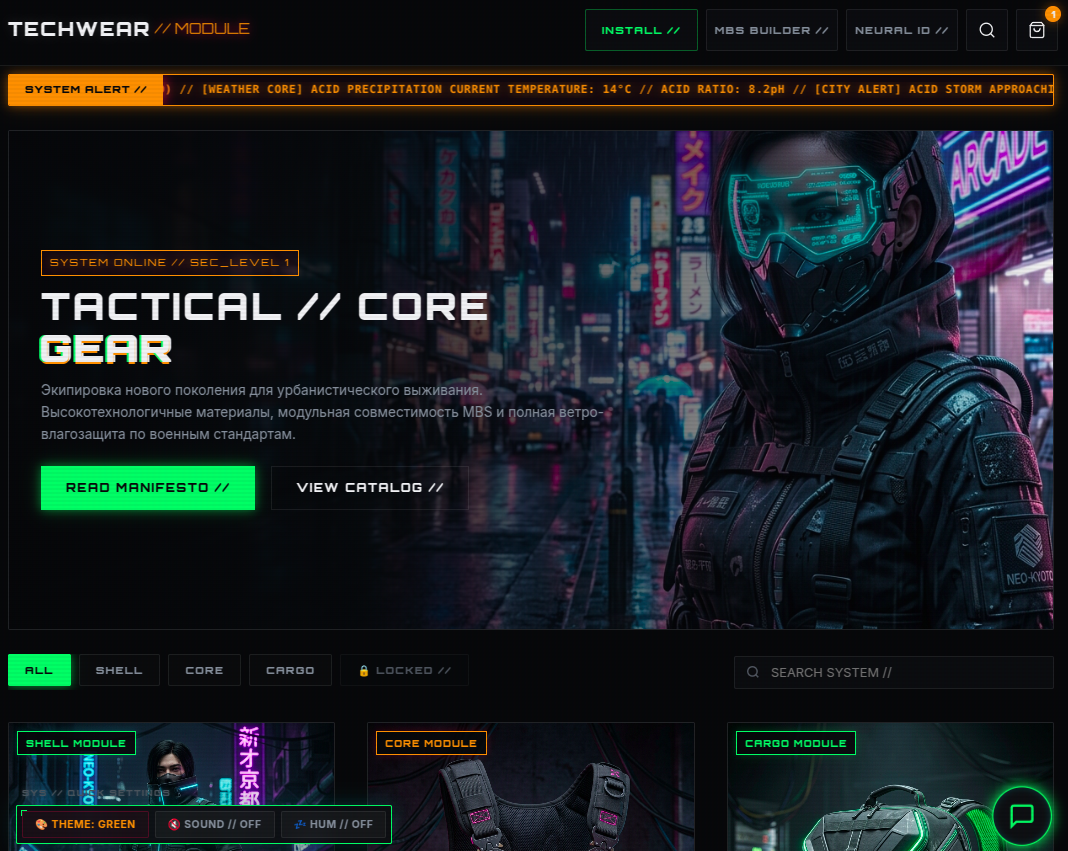
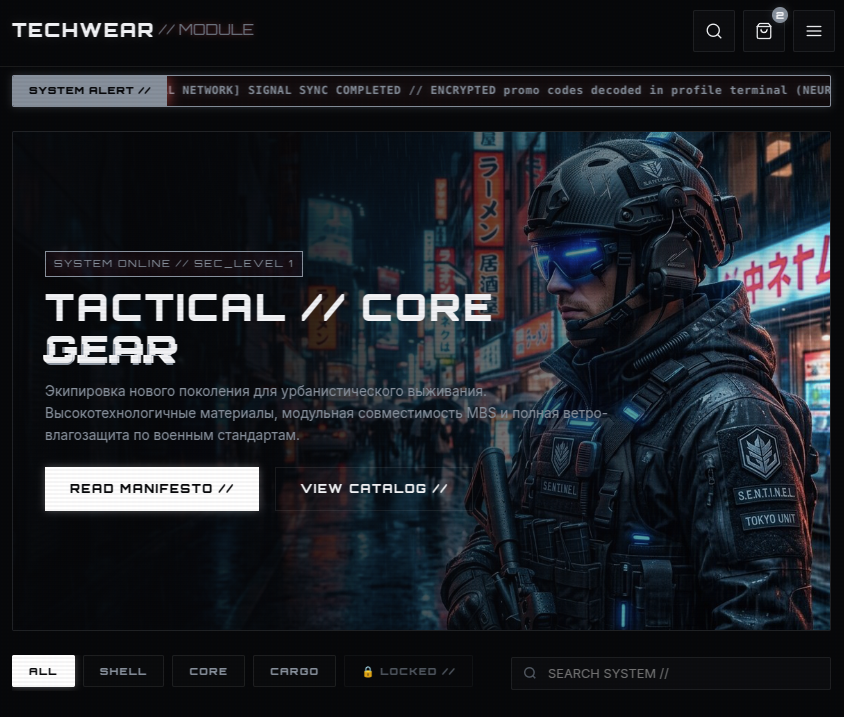
feat: add GameVault project, update tech stacks, skills grid and header buttons

diff --git a/index.html b/index.html
@@ -47,13 +47,13 @@
         </nav>
         <div class="header__actions">
           <a
-            class="header__btn header__btn--anketa"
+            class="button button-yellow header__btn header__btn--anketa"
             href="https://lelyaler.github.io/anketa/"
             target="_blank"
             >Анкета</a
           >
           <a
-            class="header__btn header__btn--cv"
+            class="button header__btn header__btn--cv"
             href="https://lelyaler.github.io/cv/"
             target="_blank"
             >CV</a
@@ -116,13 +116,13 @@
             </p>
             <div class="about__more" id="about-more">
               <p class="about__description" data-splitting="words">
-                Параллельно брала проекты на фрилансе - делала сайты «под ключ»
-                для малого и среднего бизнеса. Создавала кастомные темы
-                WordPress и магазины WooCommerce с нуля, без готовых шаблонов и
-                конструкторов. Подключала платёжные API, обеспечивала
-                веб-безопасность (валидация, экранирование, защита от XSS и
-                SQL-инъекций). Разрабатывала проекты на React, верстала из Figma
-                с Pixel Perfect и Mobile First.<br />
+                Беру проекты на фрилансе - делаю сайты «под ключ» для малого и
+                среднего бизнеса. Создаю кастомные темы WordPress и магазины
+                WooCommerce с нуля, без готовых шаблонов и конструкторов.
+                Подключаю платёжные API, обеспечиваю веб-безопасность
+                (валидация, экранирование, защита от XSS и SQL-инъекций).
+                Разрабатываю проекты на React, верстаю из Figma с Pixel Perfect
+                и Mobile First.<br />
               </p>
               <p class="about__description" data-splitting="words">
                 Могу закрыть задачи на стыке WordPress и фронтенда - от
@@ -360,16 +360,7 @@
                   <span class="skills__item-title">React</span>
                 </div>
               </li>
-              <li class="skills__list-item">
-                <div class="skills__list-item-inner">
-                  <img
-                    class="skills__item-img"
-                    src="./images/vue.svg"
-                    alt="vue logo"
-                  />
-                  <span class="skills__item-title">Vue</span>
-                </div>
-              </li>
+
               <li class="skills__list-item">
                 <div class="skills__list-item-inner">
                   <img
@@ -466,6 +457,7 @@
               </div>
               <div class="projects__info">
                 <h3 class="projects__info-title">Techwear Store</h3>
+                <span class="projects__info-tech">HTML, CSS, JavaScript, Vite</span>
                 <div class="projects__link-container">
                   <a
                     class="link button button-yellow"
@@ -494,6 +486,7 @@
               </div>
               <div class="projects__info">
                 <h3 class="projects__info-title">Cyberpunk</h3>
+                <span class="projects__info-tech">HTML, SCSS, JavaScript, Swiper</span>
                 <div class="projects__link-container">
                   <a
                     class="link button button-yellow"
@@ -515,6 +508,35 @@
             <div class="projects__card">
               <div class="projects__card-img">
                 <img
+                  src="./images/game-vault.png"
+                  alt="GameVault-img"
+                  class="projects__card-image"
+                />
+              </div>
+              <div class="projects__info">
+                <h3 class="projects__info-title">GameVault</h3>
+                <span class="projects__info-tech">React, TypeScript, Tailwind, Vite</span>
+                <div class="projects__link-container">
+                  <a
+                    class="link button button-yellow"
+                    target="_blank"
+                    href="https://lelyaler.github.io/React-TypeScript/"
+                  >
+                    Посетить сайт
+                  </a>
+                  <a
+                    class="link button"
+                    target="_blank"
+                    href="https://github.com/Lelyaler/React-TypeScript"
+                  >
+                    GitHub
+                  </a>
+                </div>
+              </div>
+            </div>
+            <div class="projects__card">
+              <div class="projects__card-img">
+                <img
                   src="./images/5051.png"
                   alt="505-img"
                   class="projects__card-image"
@@ -522,6 +544,7 @@
               </div>
               <div class="projects__info">
                 <h3 class="projects__info-title">505</h3>
+                <span class="projects__info-tech">HTML, CSS, JavaScript</span>
                 <div class="projects__link-container">
                   <a
                     class="link button button-yellow"
@@ -552,6 +575,7 @@
                 <h3 class="projects__info-title">
                   Cybersecurity Operations Center
                 </h3>
+                <span class="projects__info-tech">React, Vite, Recharts, CSS</span>
                 <div class="projects__link-container">
                   <a
                     class="link button button-yellow"
@@ -580,6 +604,7 @@
               </div>
               <div class="projects__info">
                 <h3 class="projects__info-title">Event Agency</h3>
+                <span class="projects__info-tech">HTML, CSS, JavaScript, jQuery</span>
                 <div class="projects__link-container">
                   <a
                     class="link button button-yellow"
@@ -608,6 +633,7 @@
               </div>
               <div class="projects__info">
                 <h3 class="projects__info-title">Сrypto-sticky</h3>
+                <span class="projects__info-tech">HTML, CSS, JavaScript, Swiper</span>
                 <div class="projects__link-container">
                   <a
                     class="link button button-yellow"
@@ -636,6 +662,7 @@
               </div>
               <div class="projects__info">
                 <h3 class="projects__info-title">Legal</h3>
+                <span class="projects__info-tech">HTML, CSS, JavaScript, Swiper</span>
                 <div class="projects__link-container">
                   <a
                     class="link button button-yellow"
@@ -664,6 +691,7 @@
               </div>
               <div class="projects__info">
                 <h3 class="projects__info-title">Headphone</h3>
+                <span class="projects__info-tech">HTML, CSS, JavaScript, Webpack</span>
                 <div class="projects__link-container">
                   <a
                     class="link button button-yellow"
@@ -692,6 +720,7 @@
               </div>
               <div class="projects__info">
                 <h3 class="projects__info-title">Bootstrap</h3>
+                <span class="projects__info-tech">Bootstrap, HTML, SCSS, jQuery</span>
                 <div class="projects__link-container">
                   <a
                     class="link button button-yellow"
@@ -720,6 +749,7 @@
               </div>
               <div class="projects__info">
                 <h3 class="projects__info-title">Tailwind</h3>
+                <span class="projects__info-tech">Tailwind CSS, HTML, JavaScript</span>
                 <div class="projects__link-container">
                   <a
                     class="link button button-yellow"
@@ -749,6 +779,7 @@
               </div>
               <div class="projects__info">
                 <h3 class="projects__info-title">Travel</h3>
+                <span class="projects__info-tech">HTML, SCSS, JavaScript</span>
                 <div class="projects__link-container">
                   <a
                     class="link button button-yellow"
@@ -777,6 +808,7 @@
               </div>
               <div class="projects__info">
                 <h3 class="projects__info-title">Sneakmax</h3>
+                <span class="projects__info-tech">HTML, CSS, JavaScript</span>
                 <div class="projects__link-container">
                   <a
                     class="link button button-yellow"
@@ -805,6 +837,7 @@
               </div>
               <div class="projects__info">
                 <h3 class="projects__info-title">Animation-web</h3>
+                <span class="projects__info-tech">HTML, CSS Animation, JavaScript</span>
                 <div class="projects__link-container">
                   <a
                     class="link button button-yellow"
@@ -833,6 +866,7 @@
               </div>
               <div class="projects__info">
                 <h3 class="projects__info-title">WaveRider</h3>
+                <span class="projects__info-tech">HTML, CSS, JavaScript</span>
                 <div class="projects__link-container">
                   <a
                     class="link button button-yellow"

diff --git a/style.css b/style.css
@@ -286,49 +286,44 @@ body {
   display: inline-flex;
   justify-content: center;
   align-items: center;
-  padding: 0.45rem 1.15rem;
-  border-radius: 2rem;
+  padding: 0.55rem 1.35rem;
   font-size: 0.9375rem;
-  font-weight: 600;
-  transition: all 0.3s ease;
-  cursor: pointer;
+  font-weight: 500;
   text-decoration: none;
+  cursor: pointer;
+  border-radius: 0;
+  transition: all 0.2s ease;
 }
 .header__btn--anketa {
   background-color: #fdca40;
-  color: #121212;
+  color: #171717;
   border: 0.0625rem solid #fdca40;
-  position: relative;
-  animation: anketa-scale 1.3s infinite ease-in-out;
+  animation: anketa-pulse 1.5s infinite ease-in-out;
+  transform-origin: center;
+  will-change: transform;
 }
 .header__btn--anketa:hover {
-  background-color: #e0b028;
-  border-color: #e0b028;
-  animation-play-state: paused;
-  transform: scale(1.12);
+  background-color: #c99b1f;
+  border-color: #c99b1f;
 }
 
-@keyframes anketa-scale {
-  0% {
+@keyframes anketa-pulse {
+  0%,
+  100% {
     transform: scale(1);
   }
   50% {
-    transform: scale(1.12);
-  }
-  100% {
-    transform: scale(1);
+    transform: scale(1.1);
   }
 }
 .header__btn--cv {
   background-color: transparent;
-  color: #e2e2e2;
-  border: 0.0625rem solid rgba(231, 231, 231, 0.3);
+  color: #f9f9f9;
+  border: 0.0625rem solid #333;
 }
 .header__btn--cv:hover {
-  color: #f9f9f9;
   border-color: #fdca40;
-  background-color: rgba(253, 202, 64, 0.05);
-  transform: translateY(-2px);
+  color: #fdca40;
 }
 
 .pipe {
@@ -377,6 +372,10 @@ body {
   border: 0.0625rem solid #333;
   cursor: pointer;
   transition: all 0.2s;
+}
+.button:not(.button-yellow):hover {
+  border-color: #fdca40;
+  color: #fdca40;
 }
 .button-yellow {
   background-color: #fdca40;
@@ -533,13 +532,18 @@ body {
 }
 .skills__list {
   display: grid;
-  grid-template-columns: repeat(5, 1fr);
+  grid-template-columns: repeat(6, 1fr);
   gap: 1.25rem;
-  max-width: 65.625rem;
+  max-width: 75rem;
   margin: 1.5625rem auto 0;
   padding-inline-start: 0rem;
   opacity: 0;
   transform: translateY(100%);
+}
+@media screen and (min-width: 941px) {
+  .skills__list-item:nth-child(13) {
+    grid-column: 3;
+  }
 }
 .skills__list-item {
   display: flex;
@@ -618,6 +622,8 @@ body {
 .projects__info-tech {
   color: #828282;
   font-size: 0.875rem;
+  margin-top: 0.25rem;
+  margin-bottom: 0.25rem;
 }
 .projects__info-title {
   margin-bottom: 0.125rem;
@@ -671,8 +677,11 @@ body {
   }
   .skills__list {
     width: 100%;
-    grid-template-columns: repeat(5, 1fr);
+    grid-template-columns: repeat(4, 1fr);
     gap: 1rem;
+  }
+  .skills__list-item:nth-child(13) {
+    grid-column: 2;
   }
   .skills__list-item {
     width: 100%;
@@ -708,6 +717,9 @@ body {
   .skills__list {
     grid-template-columns: repeat(3, 1fr);
     gap: 0.9rem;
+  }
+  .skills__list-item:nth-child(13) {
+    grid-column: auto;
   }
 }
 @media screen and (max-width: 660px) {
